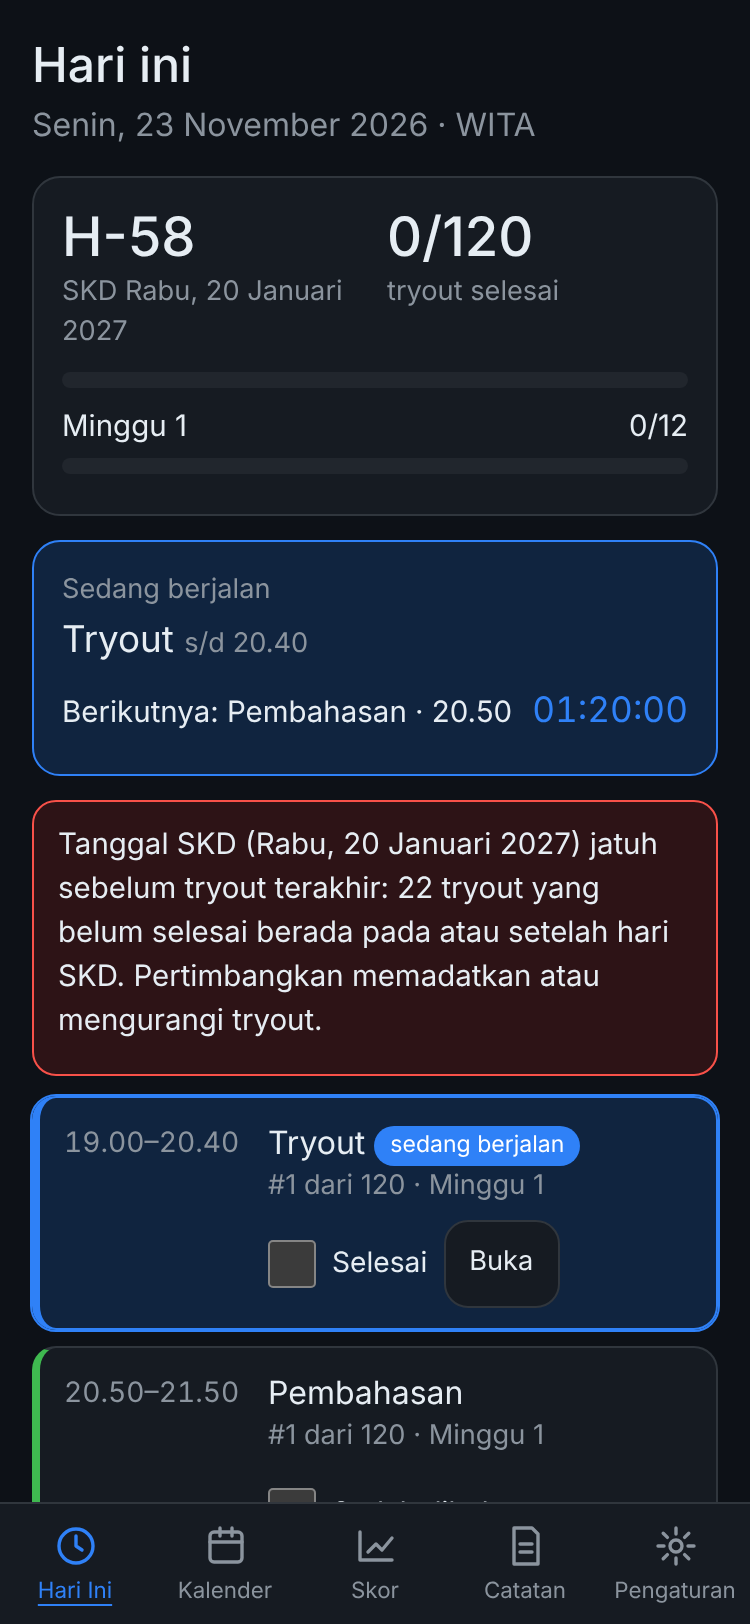
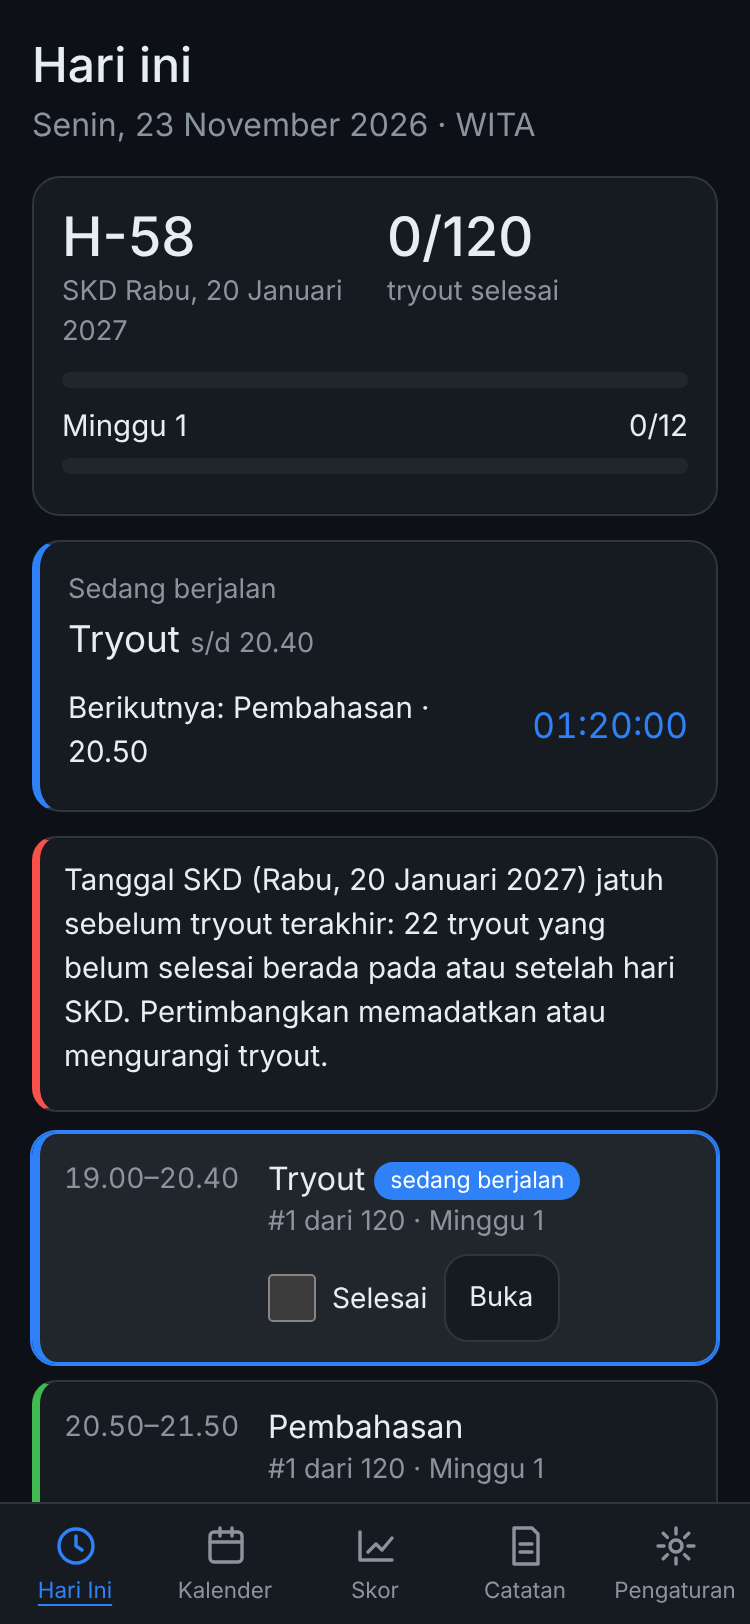
Warna polos: latar peringatan dan sorotan netral, tes palet di semua halaman, cache SW v2
Claude-Session: https://claude.ai/code/session_019qCErXsvhHESNdYEa2xMZr

Changed region(s): [[0.0307, 0.3079, 0.9813, 0.9236]]

diff --git a/styles.css b/styles.css
@@ -1,24 +1,25 @@
-/* Palet gaya GitHub. Semua warna solid: tanpa transparansi, efek kabur, atau gradasi. */
+/* Palet gaya GitHub. Polos: semua warna solid, tanpa transparansi, efek kabur, atau gradasi.
+   Latar peringatan/sorotan memakai warna netral (permukaan); warna hanya di garis tepi dan teks. */
 :root {
   --bg: #ffffff; --surface: #f6f8fa; --surface2: #eaeef2; --text: #1f2328; --muted: #656d76; --line: #d0d7de;
-  --accent: #0969da; --accent-bg: #ddf4ff; --primary: #1f883d; --on-primary: #ffffff;
-  --ok: #1a7f37; --ok-bg: #dafbe1; --bad: #cf222e; --bad-bg: #ffebe9; --warn: #9a6700; --warn-bg: #fff8c5;
+  --accent: #0969da; --accent-bg: var(--surface2); --primary: #1f883d; --on-primary: #ffffff;
+  --ok: #1a7f37; --ok-bg: var(--surface2); --bad: #cf222e; --bad-bg: var(--surface2); --warn: #9a6700; --warn-bg: var(--surface2);
   --backdrop: #57606a; --toast-bg: #1f2328; --toast-fg: #ffffff;
   color-scheme: light;
 }
 @media (prefers-color-scheme: dark) {
   :root:not([data-theme="light"]) {
     --bg: #0d1117; --surface: #161b22; --surface2: #21262d; --text: #e6edf3; --muted: #8b949e; --line: #30363d;
-    --accent: #2f81f7; --accent-bg: #10243f; --primary: #238636; --on-primary: #ffffff;
-    --ok: #3fb950; --ok-bg: #12261e; --bad: #f85149; --bad-bg: #2d1316; --warn: #d29922; --warn-bg: #272115;
+    --accent: #2f81f7; --accent-bg: var(--surface2); --primary: #238636; --on-primary: #ffffff;
+    --ok: #3fb950; --ok-bg: var(--surface2); --bad: #f85149; --bad-bg: var(--surface2); --warn: #d29922; --warn-bg: var(--surface2);
     --backdrop: #010409; --toast-bg: #e6edf3; --toast-fg: #0d1117;
     color-scheme: dark;
   }
 }
 :root[data-theme="dark"] {
   --bg: #0d1117; --surface: #161b22; --surface2: #21262d; --text: #e6edf3; --muted: #8b949e; --line: #30363d;
-  --accent: #2f81f7; --accent-bg: #10243f; --primary: #238636; --on-primary: #ffffff;
-  --ok: #3fb950; --ok-bg: #12261e; --bad: #f85149; --bad-bg: #2d1316; --warn: #d29922; --warn-bg: #272115;
+  --accent: #2f81f7; --accent-bg: var(--surface2); --primary: #238636; --on-primary: #ffffff;
+  --ok: #3fb950; --ok-bg: var(--surface2); --bad: #f85149; --bad-bg: var(--surface2); --warn: #d29922; --warn-bg: var(--surface2);
   --backdrop: #010409; --toast-bg: #e6edf3; --toast-fg: #0d1117;
   color-scheme: dark;
 }
@@ -39,7 +40,7 @@ small, .sub { color: var(--muted); font-size: .85rem; font-weight: 400; }
 
 .card { background: var(--surface); border: 1px solid var(--line); border-radius: 14px; padding: 14px; margin-bottom: 12px; }
 .card.empty { color: var(--muted); } .card.danger { border-color: var(--bad); }
-.now-card { border-color: var(--accent); background: var(--accent-bg); }
+.now-card { border-color: var(--line); border-left: 4px solid var(--accent); background: var(--surface); }
 .two { display: grid; grid-template-columns: 1fr 1fr; gap: 12px; margin-bottom: 10px; }
 .big { font-size: 1.7rem; font-weight: 500; line-height: 1.2; } .big2 { font-size: 1.15rem; margin: 2px 0 6px; }
 .rowline { display: flex; justify-content: space-between; align-items: center; gap: 10px; margin: 8px 0 4px; font-size: .92rem; }
@@ -48,8 +49,8 @@ small, .sub { color: var(--muted); font-size: .85rem; font-weight: 400; }
 .bar { height: 8px; background: var(--surface2); border-radius: 99px; overflow: hidden; margin: 4px 0 6px; }
 .bar > span { display: block; height: 100%; background: var(--primary); border-radius: 99px; }
 
-.warn { background: var(--warn-bg); color: var(--text); border: 1px solid var(--warn); border-radius: 12px; padding: 10px 12px; margin-bottom: 10px; font-size: .92rem; }
-.warn.bad { background: var(--bad-bg); border-color: var(--bad); }
+.warn { background: var(--surface); color: var(--text); border: 1px solid var(--line); border-left: 4px solid var(--warn); border-radius: 12px; padding: 10px 12px; margin-bottom: 10px; font-size: .92rem; }
+.warn.bad { border-left-color: var(--bad); }
 .warn p { margin-bottom: 6px; }
 .warn-inline { font-size: .85rem; color: var(--warn); margin: 0 0 8px; min-height: 0; } .warn-inline.bad { color: var(--bad); }
 .warn-inline:empty { display: none; }
@@ -89,7 +90,7 @@ textarea { min-height: 120px; resize: vertical; }
 .ev.k-santai, .ev.k-istirahat, .ev.k-tidur { background: var(--surface2); border-left-color: var(--line); }
 .ev.k-baca { border-left-color: var(--warn); }
 .ev.past { background: var(--bg); color: var(--muted); } .ev.past .lbl { color: var(--muted); }
-.ev.now { border-color: var(--accent); border-left-color: var(--accent); background: var(--accent-bg); outline: 1px solid var(--accent); }
+.ev.now { border-color: var(--accent); border-left-color: var(--accent); background: var(--surface2); outline: 1px solid var(--accent); }
 .ev.conflict { border-color: var(--bad); }
 .tag { display: inline-block; font-size: .72rem; padding: 1px 8px; border-radius: 99px; background: var(--accent); color: #ffffff; vertical-align: middle; font-weight: 400; }
 .tag.bad { background: var(--bad); }
@@ -130,8 +131,8 @@ details.rules { padding-bottom: 8px; } details.rules ol { padding-left: 20px; ma
 .st { font-size: .75rem; padding: 1px 8px; border-radius: 99px; background: var(--surface2); color: var(--muted); margin-left: 4px; }
 .st.s-selesai { background: var(--ok-bg); color: var(--ok); } .st.s-terlewat { background: var(--bad-bg); color: var(--bad); } .st.s-hari-ini { background: var(--accent-bg); color: var(--accent); }
 .pills { display: flex; flex-wrap: wrap; gap: 4px; margin: 4px 0; }
-.pill { display: inline-block; font-size: .78rem; padding: 2px 8px; border-radius: 99px; background: var(--surface2); color: var(--muted); }
-.pill.ok { background: var(--ok-bg); color: var(--ok); } .pill.bad { background: var(--bad-bg); color: var(--bad); } .pill.tot { background: var(--accent-bg); color: var(--accent); }
+.pill { display: inline-block; font-size: .78rem; padding: 2px 8px; border-radius: 99px; background: var(--surface2); color: var(--muted); border: 1px solid var(--line); }
+.pill.ok { background: var(--ok-bg); color: var(--ok); border-color: var(--ok); } .pill.bad { background: var(--bad-bg); color: var(--bad); border-color: var(--bad); } .pill.tot { background: var(--accent-bg); color: var(--accent); }
 .pill.sub-TWK { background: var(--accent-bg); color: var(--accent); } .pill.sub-TIU { background: var(--warn-bg); color: var(--warn); } .pill.sub-TKP { background: var(--ok-bg); color: var(--ok); }
 
 /* grafik */

diff --git a/tests/e2e.test.js b/tests/e2e.test.js
@@ -328,6 +328,53 @@ function seedState() {
     await g.ctx.close();
   }
 
+  // ---------------------------------------------------------------- Palet solid di semua halaman dan dialog
+  console.log('Warna polos di semua halaman dan dialog (gelap dan terang)');
+  for (const scheme of ['dark', 'light']) {
+    const { ctx, page } = await open('2026-12-12T02:00:00Z', { seed: true, ctx: { colorScheme: scheme } });
+    const audit = () => page.evaluate(() => {
+      const root = getComputedStyle(document.documentElement);
+      const hex = n => { const h = root.getPropertyValue(n).trim(); const v = parseInt(h.slice(1), 16); return 'rgb(' + (v >> 16) + ', ' + (v >> 8 & 255) + ', ' + (v & 255) + ')'; };
+      const allowedBg = ['--bg', '--surface', '--surface2', '--text', '--accent', '--primary', '--ok', '--bad', '--warn', '--backdrop', '--toast-bg'].map(hex).concat(['rgba(0, 0, 0, 0)']);
+      const bad = [];
+      const alphaRe = /rgba\((?!0, 0, 0, 0\))|\/ ?0?\.\d|color\(|hsla/;
+      document.querySelectorAll('body *').forEach(el => {
+        for (const pe of [null, '::before', '::after']) {
+          const cs = getComputedStyle(el, pe);
+          if (pe && cs.content === 'none') continue;
+          const nm = el.tagName + (el.className && el.className.baseVal === undefined ? '.' + String(el.className).split(' ')[0] : '') + (pe || '');
+          if (!pe && !(el instanceof SVGElement) && !allowedBg.includes(cs.backgroundColor)) bad.push('latar ' + nm + ' ' + cs.backgroundColor);
+          ['color', 'borderTopColor', 'borderLeftColor', 'outlineColor', 'fill', 'stroke'].forEach(p => { if (cs[p] && alphaRe.test(cs[p])) bad.push(p + ' ' + nm + ' ' + cs[p]); });
+          if (parseFloat(cs.opacity) < 1) bad.push('opacity ' + nm + ' ' + cs.opacity);
+          if (cs.boxShadow !== 'none') bad.push('shadow ' + nm + ' ' + cs.boxShadow);
+          if (cs.backdropFilter && cs.backdropFilter !== 'none') bad.push('backdrop-filter ' + nm);
+          if (cs.filter && cs.filter !== 'none') bad.push('filter ' + nm);
+          if (/gradient/.test(cs.backgroundImage)) bad.push('gradient ' + nm);
+        }
+      });
+      for (const id of ['sheet', 'confirm']) { const b = getComputedStyle(document.getElementById(id), '::backdrop').backgroundColor; if (b !== hex('--backdrop')) bad.push('::backdrop ' + id + ' ' + b); }
+      return bad.slice(0, 8);
+    });
+    for (const h of ['#/hari-ini', '#/kalender', '#/skor', '#/catatan', '#/pengaturan']) {
+      await go(page, h);
+      if (h === '#/skor') { check(scheme + ' ' + h + ' (daftar): warna polos', (await audit()).length === 0, await audit()); await page.click('[data-tab=tren]'); }
+      const bad = await audit();
+      check(scheme + ' ' + h + ': hanya warna solid dari palet (latar, teks, garis, bayangan, opacity, gradien)', bad.length === 0, bad);
+    }
+    await go(page, '#/hari-ini');
+    const warnBg = await page.evaluate(() => [getComputedStyle(document.querySelector('.warn')).backgroundColor, getComputedStyle(document.querySelector('.now-card')).backgroundColor, getComputedStyle(document.body).backgroundColor, getComputedStyle(document.querySelector('.card')).backgroundColor]);
+    check(scheme + ': peringatan dan kartu "sedang berjalan" memakai warna permukaan netral (bukan tint merah/kuning/biru)', warnBg[0] === warnBg[3] && warnBg[1] === warnBg[3] && warnBg[0] !== warnBg[2], warnBg);
+    await page.click('.warn [data-open]'); await page.waitForTimeout(100);
+    const bs = await audit();
+    check(scheme + ': dialog detail tryout polos, termasuk ::backdrop', bs.length === 0, bs);
+    await closeSheet(page);
+    await go(page, '#/pengaturan'); await page.click('[data-act=reset]'); await page.waitForTimeout(100);
+    const bc = await audit();
+    check(scheme + ': dialog konfirmasi polos, termasuk ::backdrop', bc.length === 0, bc);
+    await shot(page, '17-dialog-konfirmasi-' + scheme + '-375');
+    await ctx.close();
+  }
+
   // ---------------------------------------------------------------- K16 layout 375 px
   console.log('K16 layout 375 px');
   {
@@ -393,7 +440,7 @@ function seedState() {
     check('service worker aktif dengan scope akar situs', swState.active && swState.scope === base, swState);
     await page.reload(); await page.waitForSelector('#view h1');
     check('halaman dikendalikan service worker setelah muat ulang', await page.evaluate(() => !!navigator.serviceWorker.controller));
-    const cached = await page.evaluate(async () => (await (await caches.open('tryout-skd-v1')).keys()).map(r => new URL(r.url).pathname));
+    const cached = await page.evaluate(async () => (await (await caches.open('tryout-skd-v2')).keys()).map(r => new URL(r.url).pathname));
     check('cangkang aplikasi ter-cache', ['/index.html', '/app.js', '/schedule.js', '/styles.css', '/manifest.webmanifest', '/icons/icon-192.png'].every(p => cached.includes(p)), cached);
     await page.check('[data-done=T001]');
     await ctx.setOffline(true);

diff --git a/sw.js b/sw.js
@@ -1,5 +1,5 @@
 /* Service worker: pra-simpan cangkang aplikasi, lalu stale-while-revalidate. Semua path relatif. */
-var VERSION = 'tryout-skd-v1';
+var VERSION = 'tryout-skd-v2';
 var SHELL = ['./', 'index.html', 'styles.css', 'schedule.js', 'app.js', 'manifest.webmanifest', 'icons/icon.svg', 'icons/icon-192.png', 'icons/icon-512.png', 'icons/icon-maskable-512.png', 'icons/apple-touch-icon.png'];
 
 self.addEventListener('install', function (e) {

diff --git a/BUKTI.md b/BUKTI.md
@@ -1,6 +1,6 @@
 # Bukti pengujian
 
-Hasil mentah: `tests/hasil-uji.txt` (32 tes logika + 107 pemeriksaan browser, 0 gagal). Screenshot di `screenshots/`.
+Hasil mentah: `tests/hasil-uji.txt` (32 tes logika + 125 pemeriksaan browser, 0 gagal). Screenshot di `screenshots/`.
 Browser uji: Chromium (Playwright 1.63), viewport 375×812 (juga 320 dan 1280), zona waktu peramban sengaja `America/Los_Angeles`, jam palsu untuk skenario waktu.
 
 | # | Kriteria | Bukti |
@@ -24,7 +24,7 @@ Browser uji: Chromium (Playwright 1.63), viewport 375×812 (juga 320 dan 1280), 
 | K17 | PWA offline | `e2e`: manifest valid, ikon 200, SW aktif dan mengendalikan halaman, cangkang ter-cache; `setOffline(true)` lalu reload → aplikasi termuat, data ada, kalender, tambah catatan jalan. Screenshot 12 |
 | K18 | Notifikasi | `e2e`: dengan izin (disimulasikan) tepat 5 menit sebelum Tryout 19.00 muncul satu kali; tanpa izin pengingat tetap mati dan aplikasi berfungsi |
 | K19 | Subpath GitHub Pages | `e2e`: server di `/tryout-skd-repo/` → tidak ada 404, SW ter-scope subpath, offline jalan |
-| Tema | Warna gaya GitHub, solid | `e2e`: CSS tanpa rgba/opacity/gradient/blur; computed style gelap = #0d1117/#161b22/#30363d/#e6edf3 dan terang = #ffffff/#f6f8fa/#d0d7de/#1f2328; semua elemen solid (opacity 1, tanpa gradien); meta theme-color dan manifest ikut; mode otomatis mengikuti sistem. Screenshot 13–16 |
+| Tema | Warna gaya GitHub, solid | `e2e`: CSS tanpa rgba/opacity/gradient/blur; computed style gelap = #0d1117/#161b22/#30363d/#e6edf3 dan terang = #ffffff/#f6f8fa/#d0d7de/#1f2328; semua elemen solid (opacity 1, tanpa gradien); meta theme-color dan manifest ikut; mode otomatis mengikuti sistem. Screenshot 13–16. Putaran kedua: latar peringatan, sorotan, chip, dan pil dibuat netral (warna hanya pada garis tepi dan teks); tes memeriksa SEMUA elemen di 5 halaman dan 2 dialog (+ `::backdrop`) pada tema gelap dan terang: latar harus salah satu warna palet, tanpa alpha/opacity/bayangan/filter/gradien. Tes ini terbukti gagal pada CSS versi sebelumnya (tint merah/biru/kuning) dan lulus pada versi sekarang |
 | K20 | Escape HTML | `e2e`: `<img onerror>` dan `<script>` di catatan dan nama paket tampil sebagai teks, tidak dieksekusi |
 
 Tambahan: data localStorage rusak (`{rusak!!`) → aplikasi tetap jalan dengan data baru dan salinan rusak disimpan di `tryoutSkd.v1.rusak`; tanpa galat konsol di semua skenario utama.

diff --git a/README.md b/README.md
@@ -84,7 +84,7 @@ pada pembukaan berikutnya (kadang perlu dua kali buka). Jika mengubah daftar ber
 
 ```bash
 node tests/logic.test.js                          # 32 tes logika, tanpa dependensi
-npm i -D playwright && node tests/e2e.test.js     # 107 pemeriksaan browser (Chromium), menulis screenshot ke screenshots/
+npm i -D playwright && node tests/e2e.test.js     # 125 pemeriksaan browser (Chromium), menulis screenshot ke screenshots/
 ```
 
 Jadwal sudah dicocokkan dengan PDF "Jadwal Tryout Disiplin": templat harian, jumlah per hari, rentang tanggal tiap minggu, catatan Natal/Tahun Baru, dan 7 aturan tetap sama.
